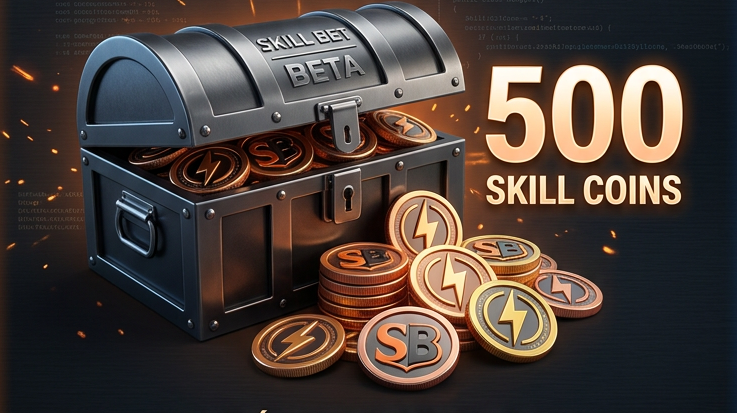
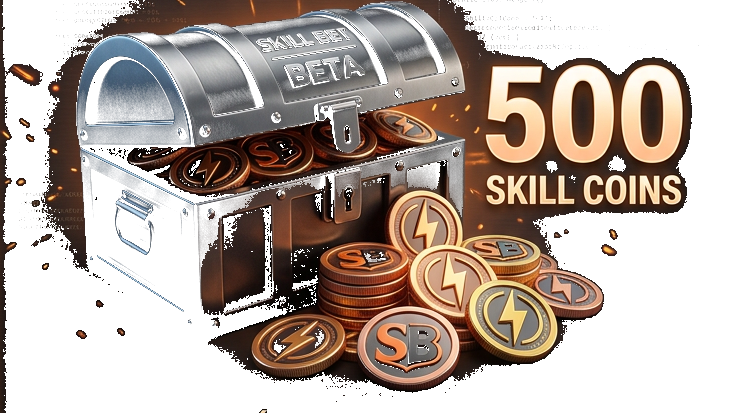
fix: use mask-image to blend coins into card background naturally

diff --git a/css/styles.css b/css/styles.css
@@ -1210,12 +1210,13 @@ img {
     top: 0;
     left: 50%;
     transform: translateX(-50%);
-    width: 240px;
+    width: 260px;
     height: auto;
     z-index: 3;
     animation: sbPileFloat 4s ease-in-out infinite;
-    filter: drop-shadow(0 8px 24px rgba(255, 107, 0, 0.5));
-    mix-blend-mode: screen;
+    filter: drop-shadow(0 8px 24px rgba(255, 107, 0, 0.6));
+    mask-image: radial-gradient(ellipse 80% 75% at 50% 42%, black 40%, transparent 85%);
+    -webkit-mask-image: radial-gradient(ellipse 80% 75% at 50% 42%, black 40%, transparent 85%);
 }
 
 .sb-hand-svg {
